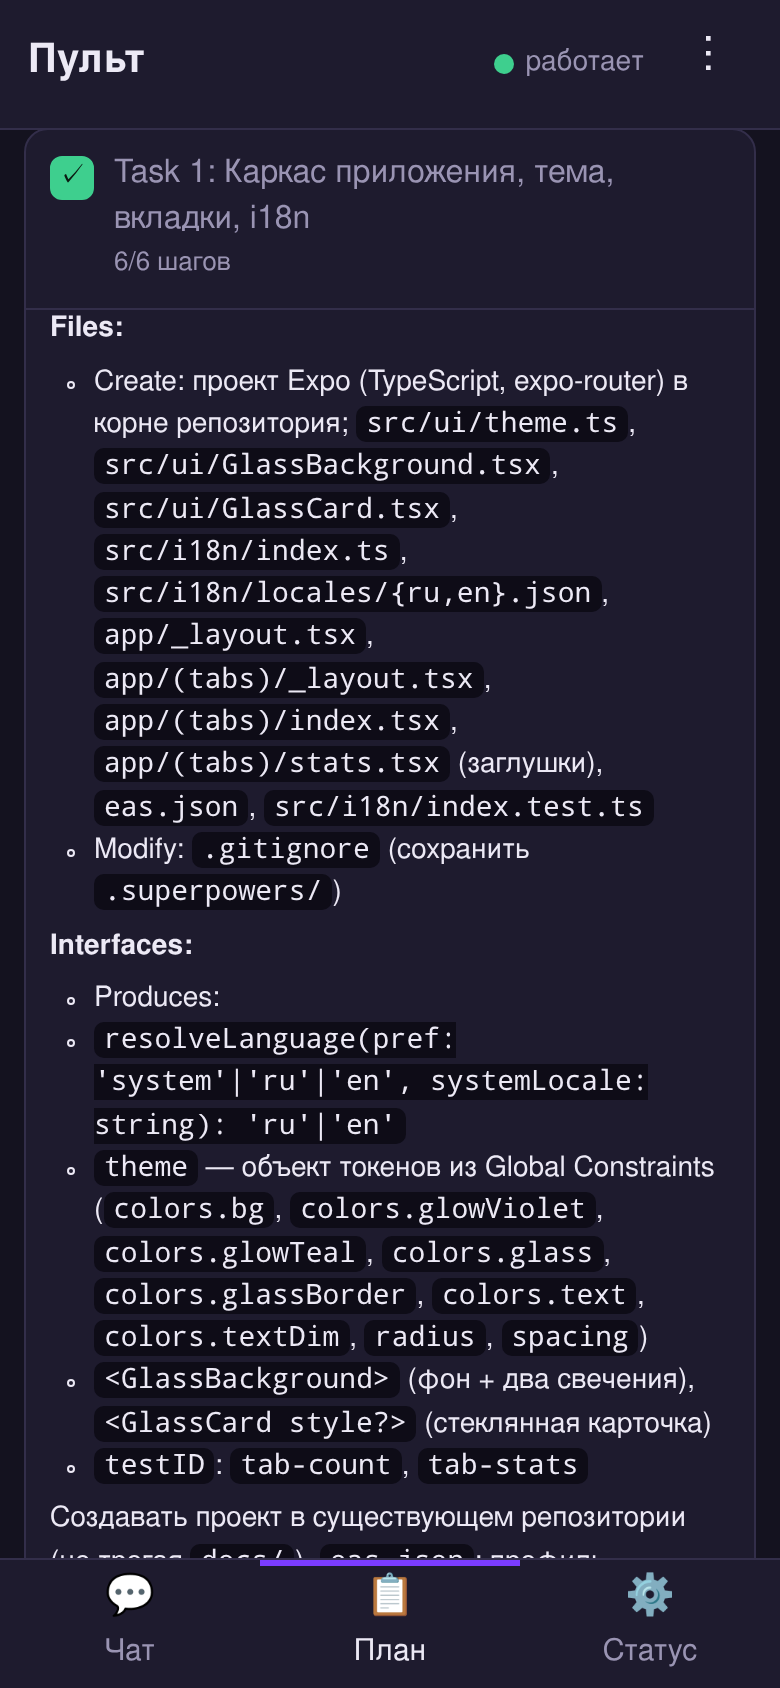
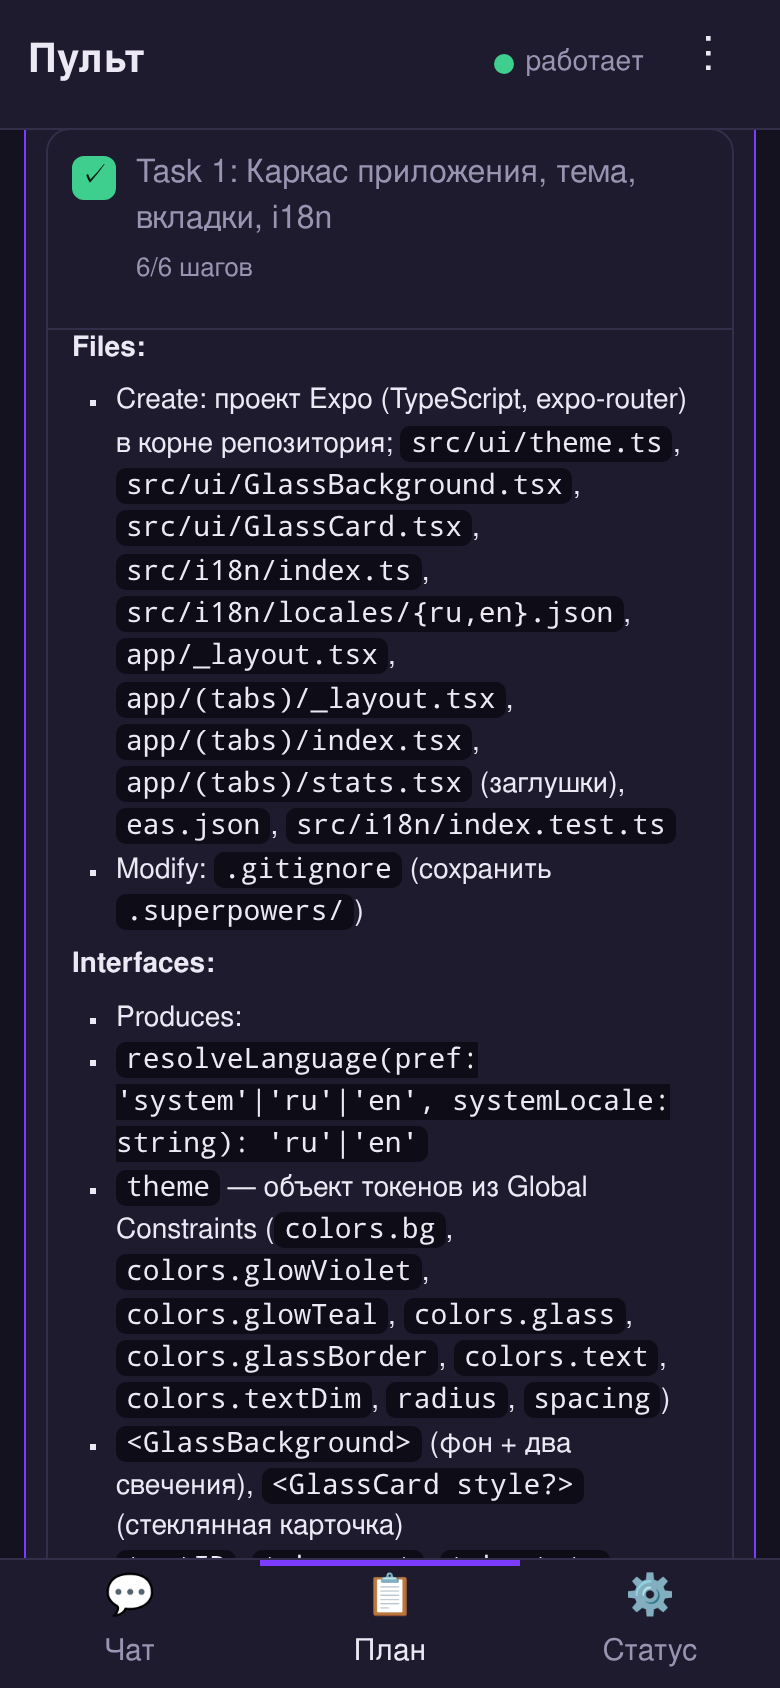
feat(web): all projects on plan tab, switch button

Changed region(s): [[0.0308, 0.0924, 0.9231, 0.9242], [0.9231, 0.154, 0.9538, 0.2156]]

diff --git a/web/index.html b/web/index.html
@@ -96,6 +96,20 @@
   .task .title { flex: 1; min-width: 0; overflow-wrap: anywhere; }
   .task .meta { font-size: 13px; color: var(--muted); }
   .task .body { padding: 0 12px 12px; border-top: 1px solid var(--line); font-size: 14px; overflow-wrap: anywhere; }
+  .projects { list-style: none; padding: 0; margin: 0; display: flex; flex-direction: column; gap: 12px; }
+  .project { background: var(--panel); border: 1px solid var(--line); border-radius: 14px; }
+  .project.active { border-color: var(--accent); }
+  .card-head { display: block; width: 100%; min-height: 48px; padding: 12px; border: none; background: none; text-align: left; }
+  .card-head .row { display: flex; align-items: center; gap: 8px; }
+  .card-head .pname { flex: 1; min-width: 0; font-weight: 600; overflow-wrap: anywhere; }
+  .badge { flex: none; font-size: 13px; padding: 2px 8px; border-radius: 10px; background: var(--accent); color: #fff; }
+  .project .meta, .plan .meta { font-size: 13px; color: var(--muted); margin: 4px 0 6px; overflow-wrap: anywhere; }
+  .project .details { padding: 0 10px 12px; }
+  .plan { border-top: 1px solid var(--line); padding: 8px 0; }
+  .plan-row { display: flex; align-items: center; gap: 8px; }
+  .plan-toggle { flex: 1; min-width: 0; min-height: 44px; padding: 0; border: none; background: none; text-align: left; overflow-wrap: anywhere; }
+  .plan .tasks { margin-top: 8px; }
+  .bar.small { height: 6px; }
   .phase { font-size: 13px; color: var(--muted); text-transform: uppercase; letter-spacing: .04em; margin: 14px 2px 2px; }
 
   /* Status */
@@ -133,12 +147,11 @@
   <section id="tab-plan">
     <div class="scroll">
       <div class="plan-head">
-        <div class="name" id="plan-name">…</div>
+        <div class="name">Проекты</div>
         <button class="btn ghost" id="plan-refresh" type="button">Обновить</button>
       </div>
-      <div class="bar"><div id="plan-bar"></div></div>
-      <div class="progress-label" id="plan-progress"></div>
-      <ul class="tasks" id="plan-tasks"></ul>
+      <div class="note hidden" id="switch-note"></div>
+      <ul class="projects" id="projects"></ul>
     </div>
   </section>
 
@@ -381,43 +394,154 @@ function taskBodies(markdown) {
   return bodies;
 }
 
-async function loadPlan() {
-  const list = $('plan-tasks');
-  try {
-    const p = await api('api/plan');
-    $('plan-name').textContent = p.path.split('/').pop();
-    $('plan-name').title = p.path;
-    $('plan-bar').style.width = p.total ? `${(100 * p.done) / p.total}%` : '0';
-    $('plan-progress').textContent = `Выполнено ${p.done} из ${p.total}`;
-    const bodies = taskBodies(p.markdown);
-    const open = new Set([...list.querySelectorAll('.task.open')].map(n => n.dataset.id));
-    list.replaceChildren();
-    let phase;
-    for (const t of p.tasks) {
-      if (t.phase && t.phase !== phase) { phase = t.phase; list.append(el('li', 'phase', phase)); }
-      const li = el('li', `task${t.done ? ' done' : ''}`);
-      li.dataset.id = t.id;
-      const head = el('button');
-      head.type = 'button';
-      head.append(el('span', 'box', t.done ? '✓' : ''));
-      const title = el('span', 'title', `${t.id}: ${t.title}`);
-      title.append(el('div', 'meta', `${t.checked}/${t.boxes} шагов${t.manual ? ' · вручную' : ''}`));
-      head.append(title);
-      const body = el('div', 'body md hidden');
-      head.addEventListener('click', () => {
-        const opening = body.classList.contains('hidden');
-        if (opening && !body.childElementCount) body.innerHTML = renderMarkdown(bodies.get(t.id) || '(нет текста)');
-        body.classList.toggle('hidden', !opening);
-        li.classList.toggle('open', opening);
-      });
-      li.append(head, body);
-      list.append(li);
-      if (open.has(t.id)) head.click();
+// Fills `list` with the plan's tasks; tasks whose ids are in `open` start expanded.
+function renderTasks(list, p, open) {
+  const bodies = taskBodies(p.markdown);
+  list.replaceChildren();
+  let phase;
+  for (const t of p.tasks) {
+    if (t.phase && t.phase !== phase) { phase = t.phase; list.append(el('li', 'phase', phase)); }
+    const li = el('li', `task${t.done ? ' done' : ''}`);
+    li.dataset.id = t.id;
+    const head = el('button');
+    head.type = 'button';
+    head.append(el('span', 'box', t.done ? '✓' : ''));
+    const title = el('span', 'title', `${t.id}: ${t.title}`);
+    title.append(el('div', 'meta', `${t.checked}/${t.boxes} шагов${t.manual ? ' · вручную' : ''}`));
+    head.append(title);
+    const body = el('div', 'body md hidden');
+    head.addEventListener('click', () => {
+      const opening = body.classList.contains('hidden');
+      if (opening && !body.childElementCount) body.innerHTML = renderMarkdown(bodies.get(t.id) || '(нет текста)');
+      body.classList.toggle('hidden', !opening);
+      li.classList.toggle('open', opening);
+    });
+    li.append(head, body);
+    list.append(li);
+    if (open.has(t.id)) head.click();
+  }
+  if (!p.tasks.length) list.append(el('li', 'empty', 'В плане нет задач.'));
+}
+
+const PROJECT_STATUS = { running: 'работает', paused: 'пауза', 'waiting-user': 'ждёт тебя', done: 'готово', halted: 'застрял',
+  sleeping: 'лимит', idle: 'ожидает', auth: 'нужен вход' };
+const fileName = path => path.split('/').pop();
+const progressBar = (done, total, cls = 'bar') => {
+  const bar = el('div', cls);
+  const fill = el('div');
+  fill.style.width = total ? `${(100 * done) / total}%` : '0';
+  bar.append(fill);
+  return bar;
+};
+const openProjects = new Set();
+const openPlans = new Set(); // `${project}\n${planPath}`
+const autoOpened = new Set(); // projects whose current plan was expanded once
+let openTasks = new Map(); // plan key -> ids of expanded tasks, kept across refreshes
+
+function planBlock(project, info, isCurrent) {
+  const key = `${project.name}\n${info.planPath}`;
+  const block = el('div', 'plan');
+  const row = el('div', 'plan-row');
+  const toggle = el('button', 'plan-toggle', `${fileName(info.planPath)}${isCurrent ? ' · текущий' : ''}`);
+  toggle.type = 'button';
+  toggle.title = info.planPath;
+  toggle.append(el('div', 'meta', info.finished ? `Выполнен: ${info.done} из ${info.total}` : `Выполнено ${info.done} из ${info.total}`),
+    progressBar(info.done, info.total, 'bar small'));
+  row.append(toggle);
+  // The autopilot is already on the active project's current plan.
+  if (!info.finished && !(project.active && isCurrent)) {
+    const run = el('button', 'btn', 'Запустить');
+    run.type = 'button';
+    run.addEventListener('click', () => switchTo(project, info, run));
+    row.append(run);
+  }
+  const tasks = el('ul', 'tasks hidden');
+  tasks.dataset.key = key;
+  const show = async opening => {
+    tasks.classList.toggle('hidden', !opening);
+    if (opening) openPlans.add(key); else openPlans.delete(key);
+    if (!opening || tasks.childElementCount) return;
+    tasks.append(el('li', 'meta', 'Загружаю…'));
+    try {
+      const q = `project=${encodeURIComponent(project.name)}&plan=${encodeURIComponent(info.planPath)}`;
+      renderTasks(tasks, await api(`api/plan?${q}`), openTasks.get(key) ?? new Set());
+    } catch (err) {
+      tasks.replaceChildren(el('li', 'note bad', err.message));
     }
-    if (!p.tasks.length) list.append(el('li', 'empty', 'В плане нет задач.'));
+  };
+  toggle.addEventListener('click', () => show(tasks.classList.contains('hidden')));
+  block.append(row, tasks);
+  if (openPlans.has(key)) show(true);
+  return block;
+}
+
+function projectCard(project) {
+  const li = el('li', `project${project.active ? ' active' : ''}`);
+  const head = el('button', 'card-head');
+  head.type = 'button';
+  const row = el('div', 'row');
+  row.append(el('span', 'pname', project.name));
+  if (project.active) row.append(el('span', 'badge', `в работе · ${PROJECT_STATUS[project.status] || project.status || 'нет данных'}`));
+  const current = project.plans.find(p => p.planPath === project.currentPlan);
+  head.append(row, el('div', 'meta', current
+    ? `${fileName(current.planPath)} — выполнено ${current.done} из ${current.total}`
+    : (project.currentPlan ? fileName(project.currentPlan) : 'Планов нет')));
+  if (current) head.append(progressBar(current.done, current.total));
+  const details = el('div', 'details hidden');
+  head.addEventListener('click', () => {
+    const opening = details.classList.contains('hidden');
+    details.classList.toggle('hidden', !opening);
+    if (!opening) return openProjects.delete(project.name);
+    openProjects.add(project.name);
+    if (details.childElementCount) return;
+    // The first opening of a card shows the current plan's tasks right away.
+    if (current && !autoOpened.has(project.name)) {
+      autoOpened.add(project.name);
+      openPlans.add(`${project.name}\n${current.planPath}`);
+    }
+    const others = project.plans.filter(p => p !== current);
+    if (current) details.append(planBlock(project, current, true));
+    if (others.length) details.append(el('div', 'phase', 'Другие планы'));
+    for (const info of others) details.append(planBlock(project, info, false));
+    if (!project.plans.length) details.append(el('div', 'meta', 'В папке планов нет файлов .md.'));
+  });
+  li.append(head, details);
+  if (openProjects.has(project.name)) head.click();
+  return li;
+}
+
+async function loadPlan() {
+  const list = $('projects');
+  openTasks = new Map();
+  for (const ul of list.querySelectorAll('ul.tasks[data-key]')) {
+    openTasks.set(ul.dataset.key, new Set([...ul.querySelectorAll('.task.open')].map(n => n.dataset.id)));
+  }
+  try {
+    const projects = await api('api/projects');
+    list.replaceChildren(...projects.map(projectCard));
+    if (!projects.length) list.append(el('li', 'empty', 'Проектов нет.'));
   } catch (err) {
-    $('plan-name').textContent = 'План не загружен';
-    list.replaceChildren(el('li', 'note bad', err.message));
+    list.replaceChildren(el('li', 'note bad', `Проекты не загружены: ${err.message}`));
+  }
+}
+
+async function switchTo(project, info, btn) {
+  const target = `${project.name} / ${fileName(info.planPath)}`;
+  if (!confirm(`Переключить автопилот на ${target}?`)) return;
+  const note = $('switch-note');
+  note.className = 'note';
+  note.textContent = 'Отправляю…';
+  btn.disabled = true;
+  try {
+    const r = await api('api/switch', { project: project.name, plan: info.planPath });
+    note.className = 'note ok';
+    note.textContent = r.when === 'now' ? `✓ Переключено: ${target}` : `✓ Переключится после текущей задачи: ${target}`;
+    setTimeout(() => { loadPlan(); loadStatus(); }, 3000);
+  } catch (err) {
+    note.className = 'note bad';
+    note.textContent = `✗ Не удалось: ${err.message}`;
+  } finally {
+    btn.disabled = false;
   }
 }
 $('plan-refresh').addEventListener('click', loadPlan);

diff --git a/docs/plans/2026-10-21-pult-v2.progress.md b/docs/plans/2026-10-21-pult-v2.progress.md
@@ -15,3 +15,9 @@
   - Ruling: поддельный Claude в режиме tick при пустом FAKE_PLAN отмечает план, названный в промпте (относительно cwd) — иначе нельзя проверить, что после переключения итерация идёт по плану B; daemon() в тестах получил параметр fakePlan — цена ошибки: только тестовая фикстура.
   - Ruling: без "ntfyCommands": true остановленный демон, как и раньше, завершается (иначе ломается поведение и тесты run → halted/done); запрос применится при следующем run — записано в README. Живой config.json с ntfyCommands: true — цена ошибки: при выключенных командах «Запустить» из остановленного состояния ждёт перезапуска службы.
   - Ruling: progressPath в запросе необязателен — если не задан, берётся progressPathFor(проект, planPath), чтобы cfg.progressPath не стал undefined.
+- 2026-10-21 20:27 Task 5: сделано — web/server.mjs: GET /api/projects, GET /api/plan?project&plan (только планы из listPlans, иначе 404), POST /api/switch (404/409, when after-task|now), /api/status и /api/plan читают active.json; вкладка «План» — карточки проектов с меткой «в работе» и статусом, раскрытие текущего и остальных планов, «Запустить» с подтверждением; 5 новых тестов, npm test 177/177
+  - Ruling: у текущего плана активного проекта кнопки «Запустить» нет (автопилот уже на нём) — цена ошибки: нельзя «перезапустить» тот же план из пульта.
+  - Ruling: /api/plan с любым из параметров project/plan требует оба и ищет через findPlan; только project → 404 — цена ошибки: странице надо слать оба (она так и делает).
+  - Ruling: scripts/web-screenshots.mjs (нет в Files задачи) обновлён под новую разметку вкладки (#projects вместо #plan-*), иначе визуальная проверка ломается; прогон OK, снимки обновлены, добавлен web-plan-projects.png.
+  - Проверено в Chromium 360 px на фикстурах alpha/beta: кнопки только у незавершённых не-текущих планов, confirm «Переключить автопилот на beta / other.md?», итог «Переключится после текущей задачи», switch.json записан, раскрытые карточки сохраняются после «Обновить», без горизонтальной прокрутки и ошибок JS.
+  - Не сделано здесь: создание файла прогресса для нового плана (spec §5) — progressPath передаётся в switch.json, сам файл создаст исполнитель при первой записи; отдельного шага в плане нет.

diff --git a/docs/plans/2026-10-21-pult-v2.md b/docs/plans/2026-10-21-pult-v2.md
@@ -102,10 +102,10 @@
 - `POST /api/switch { project, plan }` → `findPlan`; не найден → 404; `finished` → 409 `{ error: 'План уже выполнен' }`; иначе `requestSwitch` и 200 `{ ok: true, when: state.status === 'running' ? 'after-task' : 'now' }`.
 - `/api/status` и `/api/plan` читают `effectiveConfig(cfg)` на каждый запрос.
 
-- [ ] **Step 1:** Падающие тесты на три маршрута (включая `plan=../../etc/passwd` → 404, `when: 'after-task'` при `running`, 409 на выполненный план).
-- [ ] **Step 2:** `npm test` → FAIL; **Step 3:** реализовать сервер.
-- [ ] **Step 4:** Страница: вкладка «План» — карточки проектов (имя, текущий план, полоса прогресса, метка «в работе» + статус по-русски: работает / пауза / ждёт тебя / готово / застрял / лимит). Тап — раскрыть задачи текущего плана (как в v1) и список остальных планов с прогрессом, каждый раскрывается. У незавершённых — «Запустить» → `confirm('Переключить автопилот на <проект> / <план>?')` → итог: «Переключено» или «Переключится после текущей задачи».
-- [ ] **Step 5:** `npm test` → PASS. **Commit** — `feat(web): all projects on plan tab, switch button`
+- [x] **Step 1:** Падающие тесты на три маршрута (включая `plan=../../etc/passwd` → 404, `when: 'after-task'` при `running`, 409 на выполненный план).
+- [x] **Step 2:** `npm test` → FAIL; **Step 3:** реализовать сервер.
+- [x] **Step 4:** Страница: вкладка «План» — карточки проектов (имя, текущий план, полоса прогресса, метка «в работе» + статус по-русски: работает / пауза / ждёт тебя / готово / застрял / лимит). Тап — раскрыть задачи текущего плана (как в v1) и список остальных планов с прогрессом, каждый раскрывается. У незавершённых — «Запустить» → `confirm('Переключить автопилот на <проект> / <план>?')` → итог: «Переключено» или «Переключится после текущей задачи».
+- [x] **Step 5:** `npm test` → PASS. **Commit** — `feat(web): all projects on plan tab, switch button`
 
 ## Этап 3: Чат
 
